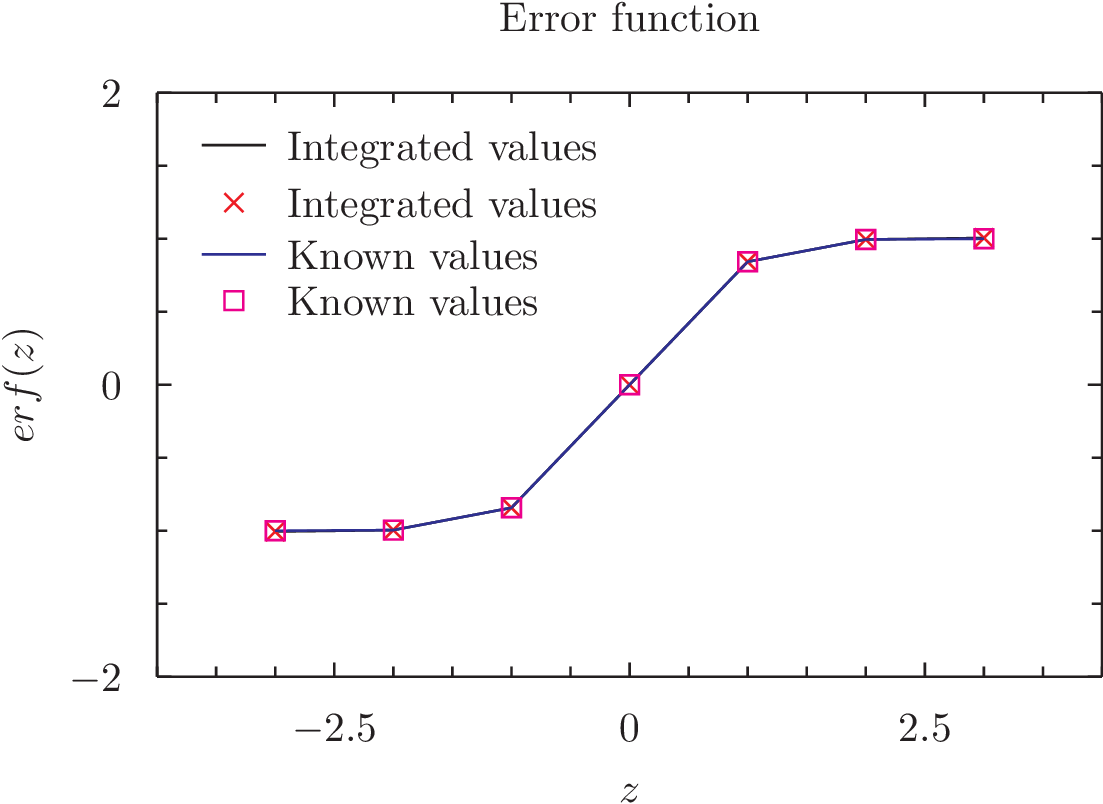
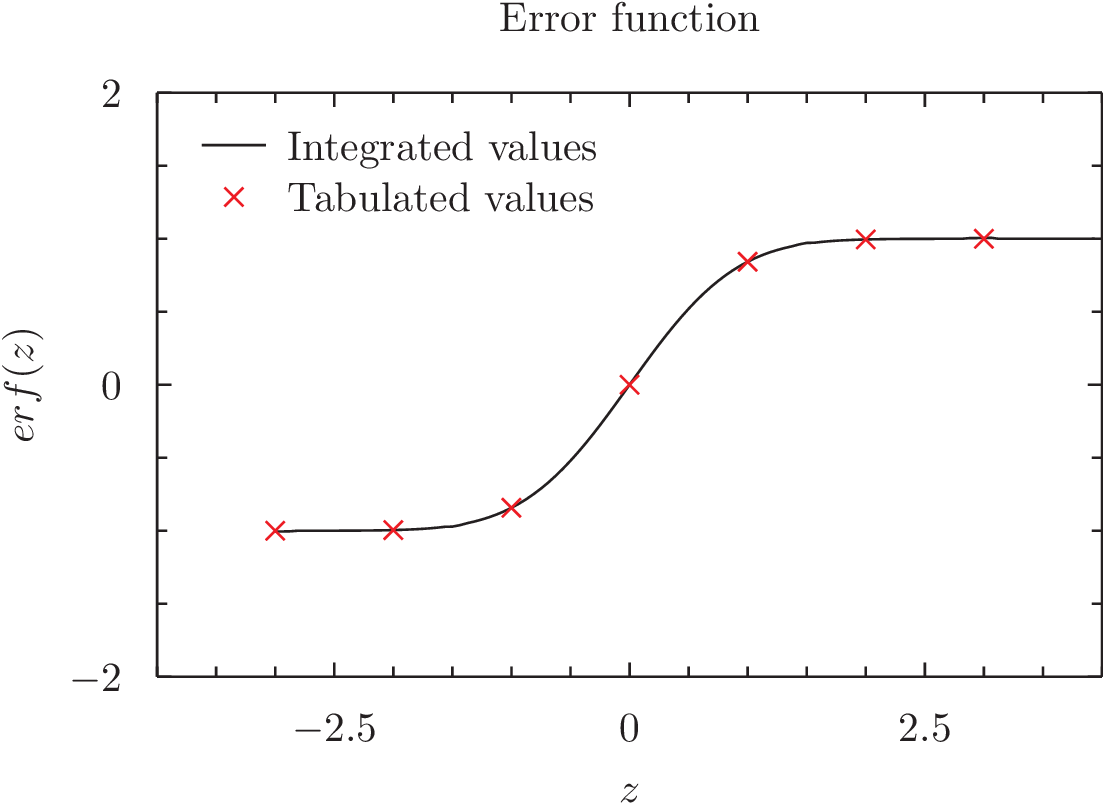
did quadratures A in higher res

diff --git a/homeworks/quadratures/A/main.cs b/homeworks/quadratures/A/main.cs
@@ -25,7 +25,7 @@ class main{
         Func<double,double> erf = x => 2/(Sqrt(PI))*Exp(-Pow(x,2)); 
 
         using(var outfile = new System.IO.StreamWriter("erf.txt")){
-        for(double z=-3;z<4;z++){
+        for(double z=-3;z<4;z+=1.0/16.0){
             outfile.WriteLine($"{z} {quad.integrate(erf,a,z)}"); //integrating erf(z) at several z values.
         }
         outfile.WriteLine();
